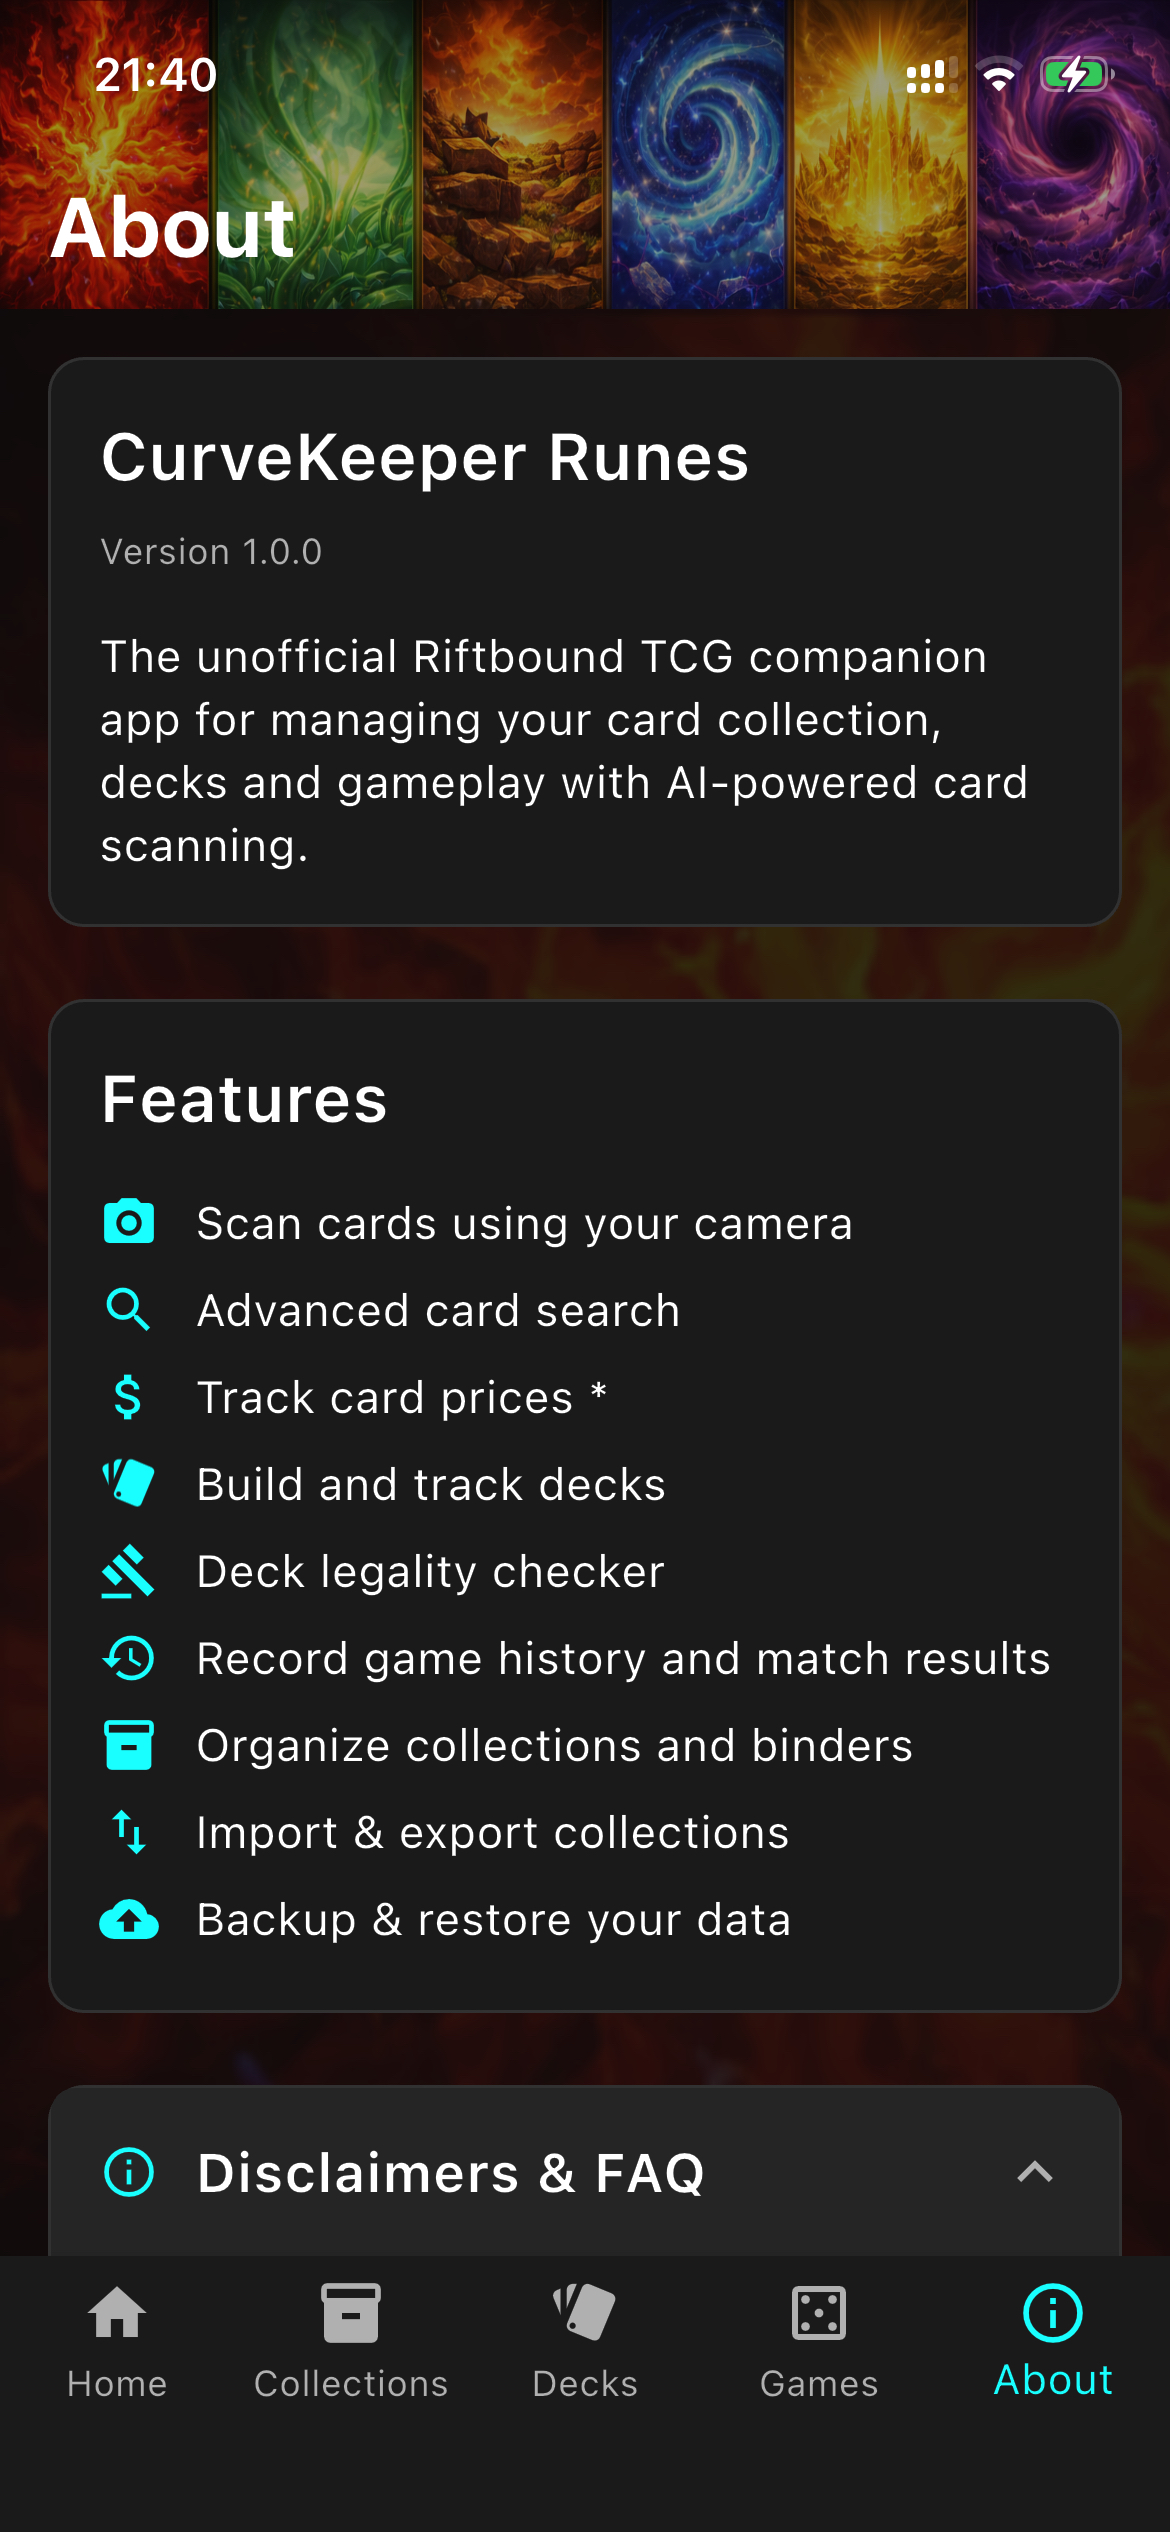
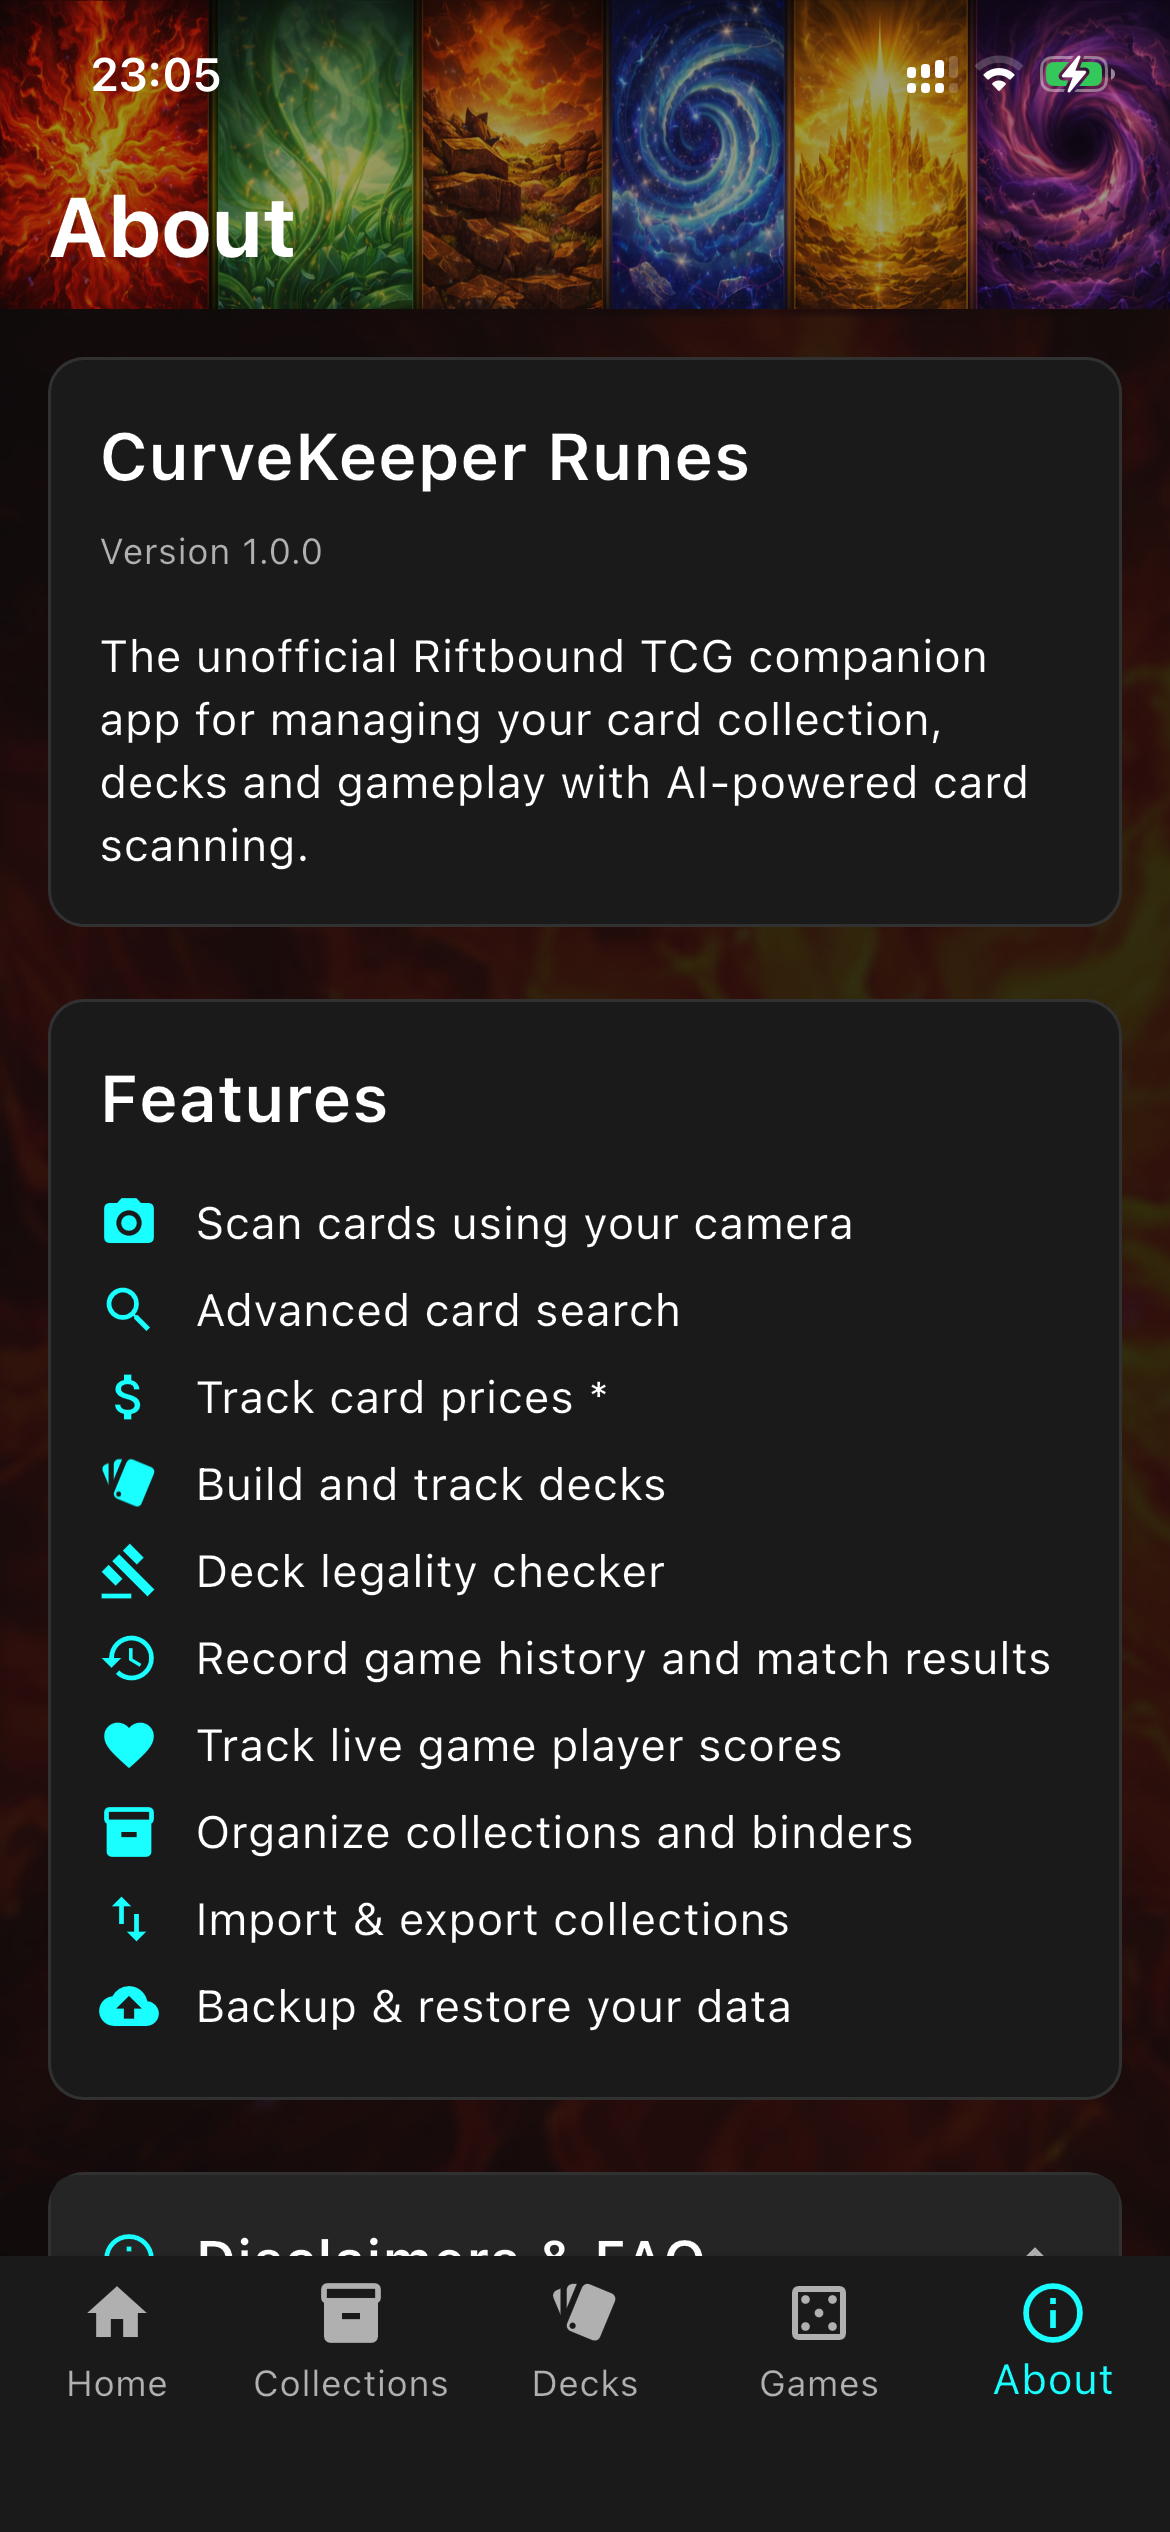
Add live game life trackign section to product description

Changed region(s): [[0.0308, 0.6552, 0.9846, 0.8736], [0.1538, 0.0, 0.1846, 0.0312], [0.0923, 0.0, 0.1231, 0.0312]]

diff --git a/curvekeeperMTG.html b/curvekeeperMTG.html
@@ -61,7 +61,7 @@
                     </div>
                     <h3>Card Scanning</h3>
                     <p>Point your camera at any Magic card. The app recognizes it in under 2 seconds and shows the card details with current market price. Add it to your collection with one tap.</p>
-                    <p>Use Fast Mode to rapidly swap cards in front of the camera — each card is automatically recognized and added to your collection without any taps.</p>
+                    <p>Use Fast Mode to rapidly swap cards in front of the camera - each card is automatically recognized and added to your collection without any taps.</p>
                 </div>
                 <div class="feature-screenshots">
                     <img src="img/curvekeeperMTG/scan_1.jpeg" alt="Camera view with card">
@@ -78,7 +78,7 @@
                         </svg>
                     </div>
                     <h3>Collection Management</h3>
-                    <p>Organize your cards into collections — binders for your physical cards, wishlists for cards you want, or any custom grouping. See your total collection value at a glance. Track regular, foil, and special treatments separately.</p>
+                    <p>Organize your cards into collections - binders for your physical cards, wishlists for cards you want, or any custom grouping. See your total collection value at a glance. Track regular, foil, and special treatments separately.</p>
                 </div>
                 <div class="feature-screenshots">
                     <img src="img/curvekeeperMTG/collection_1.jpeg" alt="Home screen with collection value">
@@ -129,6 +129,23 @@
             </div>
 
             <div class="feature-block">
+                <div class="feature-content">
+                    <div class="feature-icon">
+                        <svg xmlns="http://www.w3.org/2000/svg" width="32" height="32" viewBox="0 0 24 24" fill="none" stroke="currentColor" stroke-width="2" stroke-linecap="round" stroke-linejoin="round">
+                            <path d="M20.84 4.61a5.5 5.5 0 0 0-7.78 0L12 5.67l-1.06-1.06a5.5 5.5 0 0 0-7.78 7.78l1.06 1.06L12 21.23l7.78-7.78 1.06-1.06a5.5 5.5 0 0 0 0-7.78z"></path>
+                        </svg>
+                    </div>
+                    <h3>Player Life Tracking</h3>
+                    <p>Track player life totals during in-person games, regardless of format or pod size. Add up to 5 players, adjust life individually with tap or swipe gestures, and track commander damage for multiplayer games. Perfect for Commander, Standard, or any MTG format.</p>
+                </div>
+                <div class="feature-screenshots">
+                    <img src="img/curvekeeperMTG/lifetrack_1.jpeg" alt="Life tracking interface">
+                    <img src="img/curvekeeperMTG/lifetrack_2.jpeg" alt="Commander damage tracking">
+                    <img src="img/curvekeeperMTG/lifetrack_3.jpeg" alt="Multiplayer pod view">
+                </div>
+            </div>
+
+            <div class="feature-block reverse">
                 <div class="feature-content">
                     <div class="feature-icon">
                         <svg xmlns="http://www.w3.org/2000/svg" width="32" height="32" viewBox="0 0 24 24" fill="none" stroke="currentColor" stroke-width="2" stroke-linecap="round" stroke-linejoin="round">

diff --git a/curvekeeper.html b/curvekeeper.html
@@ -61,7 +61,7 @@
                     </div>
                     <h3>Card Scanning</h3>
                     <p>Point your camera at any Riftbound card. The app recognizes it in under 2 seconds and shows the card details with current market price. Add it to your collection with one tap.</p>
-                    <p>Use Fast Mode to rapidly swap cards in front of the camera — each card is automatically recognized and added to your collection without any taps.</p>
+                    <p>Use Fast Mode to rapidly swap cards in front of the camera - each card is automatically recognized and added to your collection without any taps.</p>
                 </div>
                 <div class="feature-screenshots">
                     <img src="img/curvekeeper/scan_1.jpeg" alt="Camera view with card">
@@ -78,7 +78,7 @@
                         </svg>
                     </div>
                     <h3>Collection Management</h3>
-                    <p>Organize your cards into collections — binders for your physical cards, wishlists for cards you want, or any custom grouping. See your total collection value at a glance. Track both regular and foil versions separately.</p>
+                    <p>Organize your cards into collections - binders for your physical cards, wishlists for cards you want, or any custom grouping. See your total collection value at a glance. Track both regular and foil versions separately.</p>
                 </div>
                 <div class="feature-screenshots">
                     <img src="img/curvekeeper/collection_1.jpeg" alt="Home screen with collection value">
@@ -129,6 +129,23 @@
             </div>
 
             <div class="feature-block">
+                <div class="feature-content">
+                    <div class="feature-icon">
+                        <svg xmlns="http://www.w3.org/2000/svg" width="32" height="32" viewBox="0 0 24 24" fill="none" stroke="currentColor" stroke-width="2" stroke-linecap="round" stroke-linejoin="round">
+                            <path d="M20.84 4.61a5.5 5.5 0 0 0-7.78 0L12 5.67l-1.06-1.06a5.5 5.5 0 0 0-7.78 7.78l1.06 1.06L12 21.23l7.78-7.78 1.06-1.06a5.5 5.5 0 0 0 0-7.78z"></path>
+                        </svg>
+                    </div>
+                    <h3>Player Score Tracking</h3>
+                    <p>Track player scores during in-person games, regardless of format or pod size. Add up to 5 players, adjust scores individually with tap or swipe gestures, and keep a running tally throughout the match. Perfect for tracking points across multiple rounds or game formats.</p>
+                </div>
+                <div class="feature-screenshots">
+                    <img src="img/curvekeeper/lifetrack_1.jpeg" alt="Score tracking interface">
+                    <img src="img/curvekeeper/lifetrack_2.jpeg" alt="Multiplayer score view">
+                    <img src="img/curvekeeper/lifetrack_3.jpeg" alt="Score adjustment controls">
+                </div>
+            </div>
+
+            <div class="feature-block reverse">
                 <div class="feature-content">
                     <div class="feature-icon">
                         <svg xmlns="http://www.w3.org/2000/svg" width="32" height="32" viewBox="0 0 24 24" fill="none" stroke="currentColor" stroke-width="2" stroke-linecap="round" stroke-linejoin="round">
